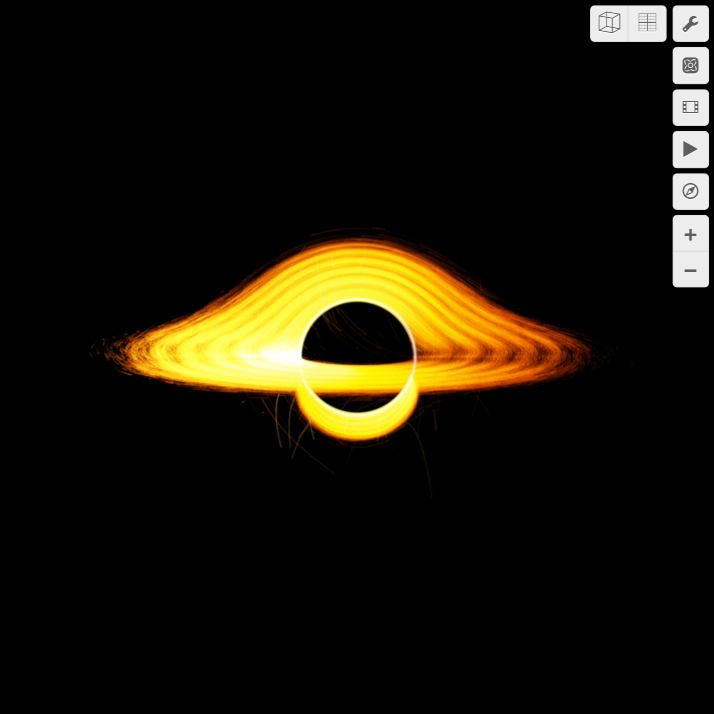
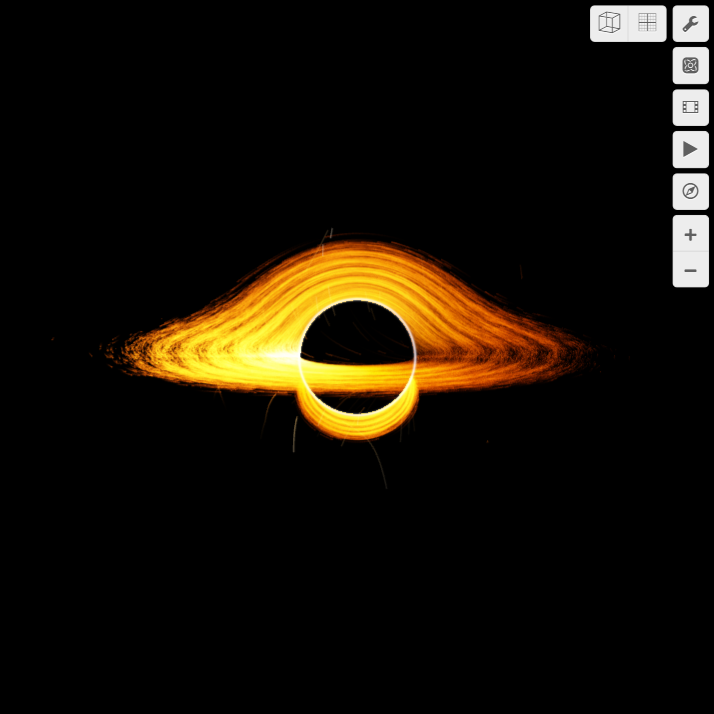
Draw the black hole's shadow into the depth buffer, and the 3D black hole at 60 fps
Measured every preset's frame rate in 2D and 3D on this machine's GPU
(preset-fps.cjs, now in the mock-ups folder): all twenty-eight ran at the
display's 60 but one, the 3D black hole, at 30. Its lens drew every trail
three times — the far side, its second image, then the near side over the
shadow — because the shadow had to be painted between them.

The shadow is a sphere's silhouette, so it now goes into the depth buffer
too, at the sphere's near face, before anything else. A trail behind it
then fails the depth test and costs nothing, and a trail in front passes and
draws over the black, so one pass draws every main image and a second draws
only the faint second images. That alone took it from 30 to 41 fps; the
preset's 60,000 particles, which with lensing is 7.7 million trail vertices
a frame, down to 36,000 at a slightly higher opacity takes it to 60 with no
loss a screenshot shows.

Changed region(s): [[0.1541, 0.3081, 0.8319, 0.6471]]

diff --git a/src/field-rendering/Flow3DRenderer.ts b/src/field-rendering/Flow3DRenderer.ts
@@ -495,12 +495,26 @@ uniform float u_radiusPx;
 uniform int u_mode;
 uniform vec3 u_ringColor;
 uniform float u_ring;
+uniform float u_holeDistance;
+uniform float u_shadowView;
+uniform vec2 u_depthMap;
+uniform int u_ortho;
 out vec4 outColor;
 void main() {
   float r = length(gl_FragCoord.xy - u_centerPx) / max(u_radiusPx, 1.0e-3);
   if (u_mode == 0) {
+    // The shadow is a sphere's silhouette, so it is written into the depth
+    // buffer at the sphere's near face: the flow behind it then fails the
+    // depth test and is never drawn, at no cost, while what is in front of
+    // it passes and is drawn over the black.
+    if (r > 1.0) discard;
     float a = 1.0 - smoothstep(0.96, 1.0, r);
     outColor = vec4(0.0, 0.0, 0.0, a);
+    float z = -(u_holeDistance - u_shadowView * sqrt(max(1.0 - r * r, 0.0)));
+    float ndc = u_ortho == 1
+      ? u_depthMap.x * z + u_depthMap.y
+      : (u_depthMap.x * z + u_depthMap.y) / -z;
+    gl_FragDepth = clamp(0.5 * ndc + 0.5, 0.0, 1.0);
   } else {
     float w = 1.5 / max(u_radiusPx, 1.0);
     float g = u_ring * exp(-pow((r - 1.0 - w) / w, 2.0));
@@ -827,7 +841,7 @@ export class Flow3DRenderer implements Overlay3DRenderer {
         gl.depthFunc(gl.GREATER);
         draw(0.25);
       }
-      if (occluding) {
+      if (occluding || hole !== undefined) {
         gl.enable(gl.DEPTH_TEST);
         gl.depthFunc(gl.LEQUAL);
       } else {
@@ -867,12 +881,15 @@ export class Flow3DRenderer implements Overlay3DRenderer {
     };
     if (hole === undefined) trails(0, 1);
     else {
-      // Behind the hole, both images of it; then the shadow over them; then
-      // what is in front, over the shadow.
-      trails(1, 1);
+      // The shadow first, into the depth buffer as well as the colour, so
+      // every trail behind it is rejected by the depth test: one pass for
+      // the main image of everything, one for the faint second image of
+      // what is behind, rather than drawing the far side, the shadow and
+      // then the near side as three passes. Then the photon ring, over all.
+      this.drawShadowDisc(hole, camera, ba > 0);
+      trails(0, 1);
       trails(1, -1);
-      this.drawShadow(hole, palette, ba > 0);
-      trails(2, 1);
+      this.drawPhotonRing(hole, palette, ba > 0);
     }
     gl.depthMask(true);
     gl.bindVertexArray(null);
@@ -887,22 +904,20 @@ export class Flow3DRenderer implements Overlay3DRenderer {
     };
   }
 
-  /** The hole's shadow, then its photon ring in the palette's hottest colour. */
-  private drawShadow(
-    hole: LensFrame,
-    palette: ReturnType<typeof paletteUniforms>,
-    dark: boolean
-  ) {
+  /** The hole's shadow: black, opaque, and written into the depth buffer. */
+  private drawShadowDisc(hole: LensFrame, camera: Camera3D, dark: boolean) {
     const { gl } = this;
     const u = this.shadowUniforms;
     gl.useProgram(this.shadowProgram);
-    gl.disable(gl.DEPTH_TEST);
-    gl.uniform2fv(u.u_centerPx, [
-      hole.centerPx[0] * this.canvas.width,
-      hole.centerPx[1] * this.canvas.height,
-    ]);
-    gl.uniform1f(u.u_radiusPx, hole.shadowPx * this.canvas.height);
-    // Black over what is drawn, and opaque, so the graph does not show
+    this.shadowPlacement(hole);
+    gl.uniform1f(u.u_holeDistance, -hole.view[2]);
+    gl.uniform1f(u.u_shadowView, ((3 * Math.sqrt(3)) / 2) * hole.horizonView);
+    gl.uniform2f(u.u_depthMap, camera.projection[10], camera.projection[14]);
+    gl.uniform1i(u.u_ortho, camera.orthographic ? 1 : 0);
+    gl.enable(gl.DEPTH_TEST);
+    gl.depthFunc(gl.LEQUAL);
+    gl.depthMask(true);
+    // Black over the backdrop, and opaque, so the graph does not show
     // through the hole.
     gl.blendFuncSeparate(
       gl.ZERO,
@@ -912,9 +927,31 @@ export class Flow3DRenderer implements Overlay3DRenderer {
     );
     gl.uniform1i(u.u_mode, 0);
     gl.drawArrays(gl.TRIANGLES, 0, 3);
+    gl.depthMask(false);
+    // Back to the flow's own blending.
+    if (dark) {
+      gl.blendFuncSeparate(
+        gl.ONE,
+        gl.ONE_MINUS_SRC_COLOR,
+        gl.ONE,
+        gl.ONE_MINUS_SRC_ALPHA
+      );
+    } else gl.blendFunc(gl.ONE, gl.ONE_MINUS_SRC_ALPHA);
+  }
+
+  /** The photon ring at the shadow's edge, in the palette's hottest colour. */
+  private drawPhotonRing(
+    hole: LensFrame,
+    palette: ReturnType<typeof paletteUniforms>,
+    dark: boolean
+  ) {
+    const { gl } = this;
+    const u = this.shadowUniforms;
+    gl.useProgram(this.shadowProgram);
+    gl.disable(gl.DEPTH_TEST);
+    this.shadowPlacement(hole);
     const n = palette.count;
-    const hottest = palette.colors.slice((n - 1) * 3, n * 3);
-    gl.uniform3fv(u.u_ringColor, hottest);
+    gl.uniform3fv(u.u_ringColor, palette.colors.slice((n - 1) * 3, n * 3));
     gl.uniform1f(u.u_ring, 0.8);
     gl.uniform1i(u.u_mode, 1);
     if (dark) {
@@ -926,6 +963,16 @@ export class Flow3DRenderer implements Overlay3DRenderer {
       );
     } else gl.blendFunc(gl.ONE, gl.ONE_MINUS_SRC_ALPHA);
     gl.drawArrays(gl.TRIANGLES, 0, 3);
+  }
+
+  private shadowPlacement(hole: LensFrame) {
+    const { gl } = this;
+    const u = this.shadowUniforms;
+    gl.uniform2fv(u.u_centerPx, [
+      hole.centerPx[0] * this.canvas.width,
+      hole.centerPx[1] * this.canvas.height,
+    ]);
+    gl.uniform1f(u.u_radiusPx, hole.shadowPx * this.canvas.height);
   }
 
   destroy() {

diff --git a/src/field-rendering/Flow3DRenderer.unit.test.ts b/src/field-rendering/Flow3DRenderer.unit.test.ts
@@ -99,7 +99,7 @@ describe("the 3D flow", () => {
 });
 
 describe("the black hole's lens", () => {
-  test("draws the flow behind the hole twice, its two images, then what is in front", () => {
+  test("draws two passes: every main image, then the second images of what is behind; the shadow in the depth buffer hides the rest", () => {
     const gl = fakeGL();
     const renderer = new Flow3DRenderer(fakeCanvas(gl));
     renderer.setField(swirl);
@@ -117,7 +117,7 @@ describe("the black hole's lens", () => {
       view: [1, 0, 0, 0, 0, 1, 0, 0, 0, 0, 1, 0, 0, 0, -20, 1],
     };
     renderer.draw(facing, box);
-    expect(gl.counts.instancesDrawn - before).toBe(3 * 1000);
+    expect(gl.counts.instancesDrawn - before).toBe(2 * 1000);
   });
 
   test("with no lens, one pass", () => {

diff --git a/src/field-rendering/gallery.ts b/src/field-rendering/gallery.ts
@@ -204,11 +204,11 @@ export const FIELD_GALLERY: readonly GalleryPreset[] = [
       seedLatex: String.raw`e^{-\frac{z^{2}}{0.006}}\cdot\frac{1.6}{${rho}}\cdot\frac{0.65+0.35\sin\left(11${rho}\right)}{\left(1+e^{-14\left(${rho}-1.4\right)}\right)\left(1+e^{5\left(${rho}-4.5\right)}\right)}+0.005e^{-0.6\left(x^{2}+y^{2}+z^{2}\right)}`,
       lensHorizon: 0.45,
       look: {
-        particles: 60_000,
+        particles: 36_000,
         speed: 0.3,
         trail: 64,
         lifetime: 6,
-        opacity: 0.38,
+        opacity: 0.5,
         glow: 0.12,
         normalizeSpeed: false,
         absorb: false,
